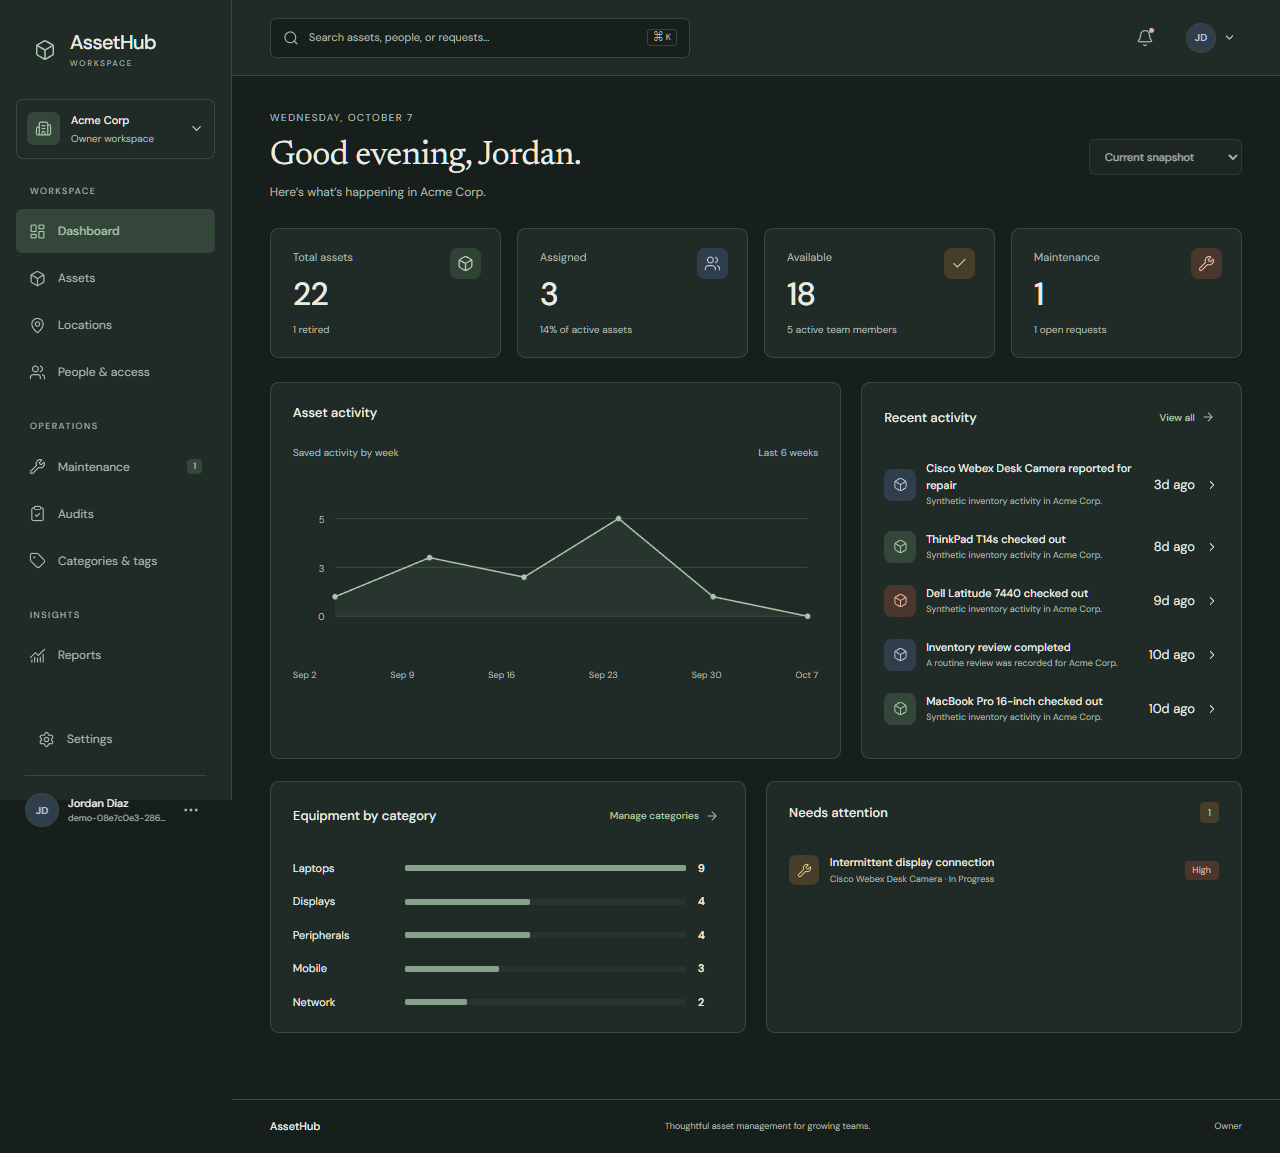
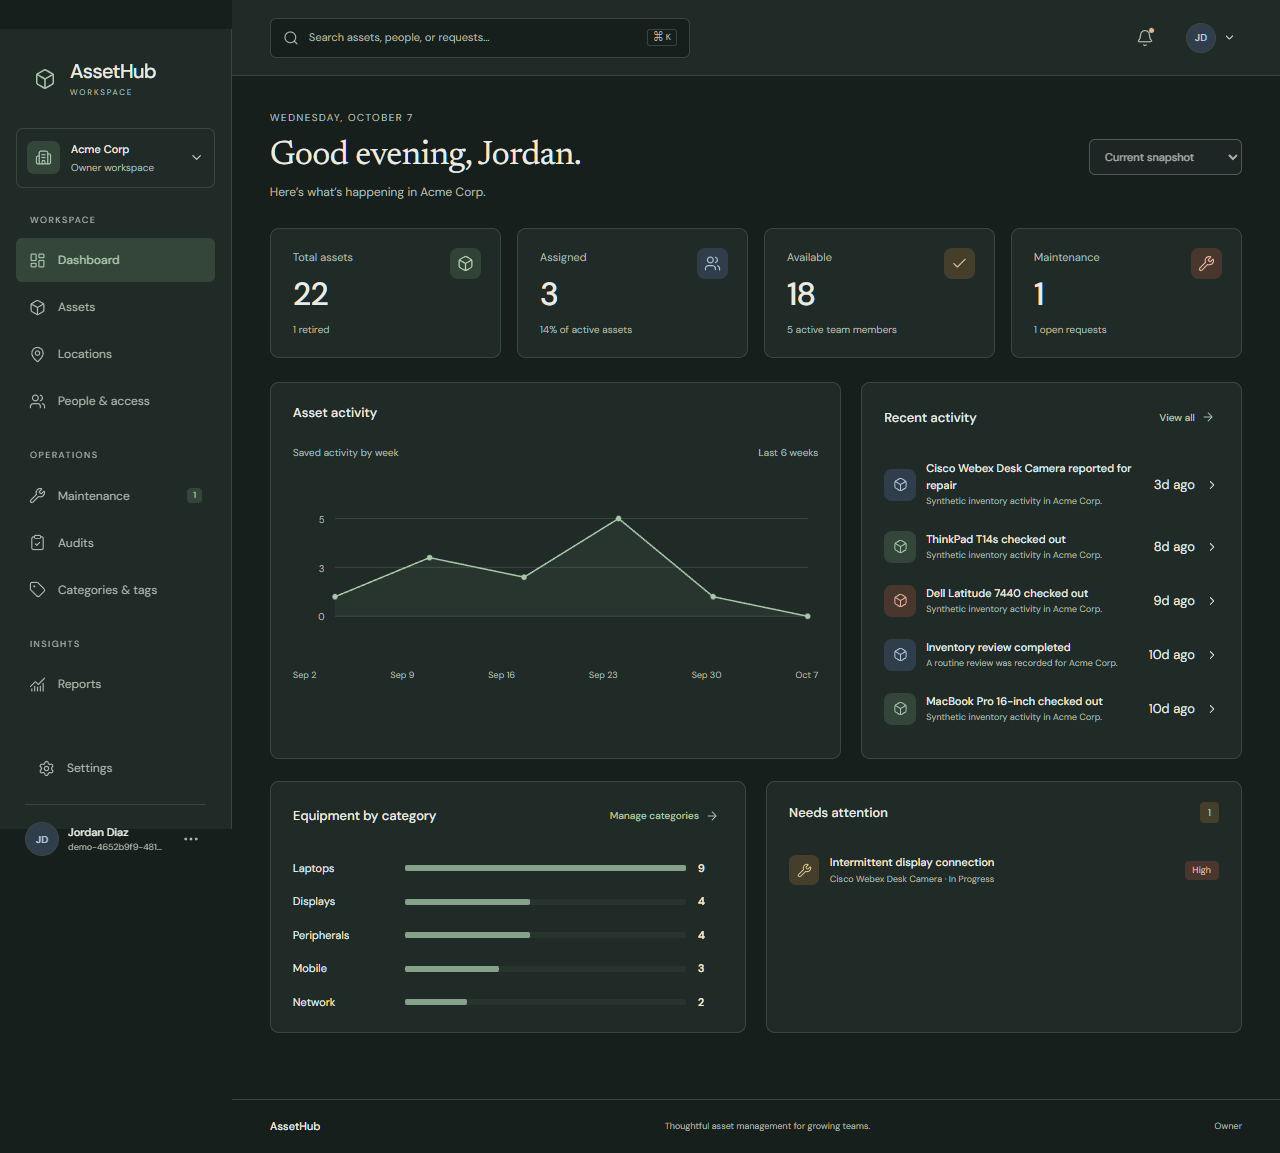
Record production verification and readable custody history

diff --git a/backend/src/controllers/workspaceController.js b/backend/src/controllers/workspaceController.js
@@ -410,7 +410,7 @@ async function checkoutAsset(req, res) {
     "expectedReturn must be after checkoutDate",
   );
   const result = await prisma.$transaction(async (tx) => {
-    await owned(
+    const person = await owned(
       tx.membership,
       { id: personId, organizationId: req.organizationId, status: "ACTIVE" },
       "Person",
@@ -449,7 +449,7 @@ async function checkoutAsset(req, res) {
       req.organizationId,
       "asset.checked_out",
       `${current.name} checked out`,
-      `Asset assigned to ${personId}.`,
+      `Asset assigned to ${person.name}.`,
       current.id,
       checkoutDate,
     );

diff --git a/docs/overhaul/verification.md b/docs/overhaul/verification.md
@@ -6,9 +6,10 @@ Verification date: 7 October 2026. The supplied AssetHub image governs the visua
 
 | Check | Evidence |
 | --- | --- |
-| PostgreSQL API suite | Eight tests passed, zero failed and zero skipped with `RUN_DB_TESTS=1` |
+| PostgreSQL API suite | The complete overhaul suite passed eight tests, zero failed and zero skipped with `RUN_DB_TESTS=1`; subsequent scoped regressions are listed below |
 | Password regression | The tenant/permission test passed again after adding rejection of passwords exceeding bcrypt's 72-byte limit |
 | Demo release regression | Demo isolation/expiry and tenant/permission tests passed after batching demo writes; assertions cover category/location links, assignees, open checkouts and location-scoped audit snapshots |
+| Custody history regression | The concurrent-checkout/date test passed after changing new history entries to use the custodian's name |
 | Frontend lint | `npm run lint` passed |
 | Frontend production bundle | Vite built successfully: 1,919 modules, approximately 314 kB JavaScript before gzip |
 | Prisma | Schema validation, client generation and migration deployment passed with the dependency override |
@@ -39,7 +40,7 @@ All nine operational screens were checked at a 320px viewport. Document width re
 
 The dashboard was visually reviewed against the supplied reference. Ivory surfaces, forest accents, editorial serif titles, fine borders, sidebar density, compact tables and focused action dialogs implement its theme and style as separate working screens.
 
-[Light dashboard](screenshots/dashboard-light.png) and [dark dashboard](screenshots/dashboard-dark.png) are saved with synthetic demo data.
+[Light dashboard](screenshots/dashboard-light.png), [dark dashboard](screenshots/dashboard-dark.png), [asset register](screenshots/assets-light.png), [checkout drawer](screenshots/checkout-light.png) and [320px dashboard](screenshots/dashboard-mobile.png) are captured from production with synthetic demo data.
 
 Axe-core was injected through Playwright as a development-only verification tool, using WCAG 2 A, AA and 2.1 AA tags. Dashboard, Assets, Locations, People & access, Maintenance, Audits, Categories & tags, Reports and Settings each returned zero violations in both themes. A light table-heading contrast issue was corrected through the shared muted-text token and all nine light screens were rerun successfully.
 
@@ -47,7 +48,24 @@ Automated accessibility checks do not establish full conformance. Manual checks 
 
 ## Production release
 
-The initial overhaul deployment reached READY and returned HTTP 200 for the public HTML and health endpoint. Its first live demo request exposed a Prisma P2028 transaction timeout: setup inserted each synthetic record separately. Demo provisioning now preassigns IDs and inserts each table in batches inside the same all-or-nothing transaction. The transaction deadline and isolation safeguards remain in place. Final public-domain browser evidence will be recorded after the corrected release reaches READY.
+Public domain: [multi-tenant-asset-manager.vercel.app](https://multi-tenant-asset-manager.vercel.app/). GitHub source: [vmargin/multi-tenant-asset-manager](https://github.com/vmargin/multi-tenant-asset-manager).
+
+The initial overhaul deployment reached READY and returned HTTP 200 for the public HTML and health endpoint. Its first live demo request exposed a Prisma P2028 transaction timeout: setup inserted each synthetic record separately. Demo provisioning now preassigns IDs and inserts each table in batches inside the same all-or-nothing transaction. The transaction deadline and isolation safeguards remain in place.
+
+The corrected backend release `88e7c32` reached READY as `dpl_6YH6zqeQwrWGDN3PPCjNpcw4qu1g`. The compact-toolbar release `8146f55` reached READY as `dpl_9vYjZbaor2LePim6pd5quqrQrVee`. Both were promoted automatically from GitHub main to the public production domain. Browser proof includes:
+
+- Public HTML and `/api/health` returned HTTP 200 and the expected AssetHub/ok content.
+- The corrected live demo returned HTTP 201 and opened the dashboard. One cold run took approximately 19 seconds from clicking Explore to the loaded dashboard; this is a single observed run, not a latency benchmark.
+- Both synthetic workspaces returned HTTP 200 with 23 initial asset records each. Their IDs were disjoint and every asset matched its selected organization. A non-member organization request returned HTTP 403.
+- An asset created through the UI returned 201; checkout returned 201; return and retirement returned 200. Saved data confirmed RETIRED, a closed checkout and all four lifecycle activity entries.
+- A copyable invitation returned 201, remained INVITED, and used the stable `https://multi-tenant-asset-manager.vercel.app` origin. No email was sent.
+- A QR label returned 200 and its 256px image loaded.
+- Dark appearance persisted after reload. All nine operational screens returned zero automated accessibility violations in both themes after the toolbar correction. The settled checkout drawer also returned zero violations.
+- All nine screens retained a 320px document width on a 320px viewport. Mobile navigation made main content inert and restored focus to Open navigation after Escape.
+- Asset filters measured 38px high on desktop and 44px on mobile. Import retained a visible keyboard focus outline while the native file control was visually integrated into the button.
+- The corrected backend's deployment-scoped runtime logs returned no error, warning or fatal entries during the observed test window. The intentional 403 membership probe was expected; it is not an application failure.
+
+The original-data fingerprint proof was rerun after production mutations and still preserved all original records and credentials. The final evidence update also makes new custody-history descriptions use the person's name rather than an internal identifier. Its checkout concurrency regression passed; the protected database is not rewritten to change older history text.
 
 ## Operational boundaries
 
